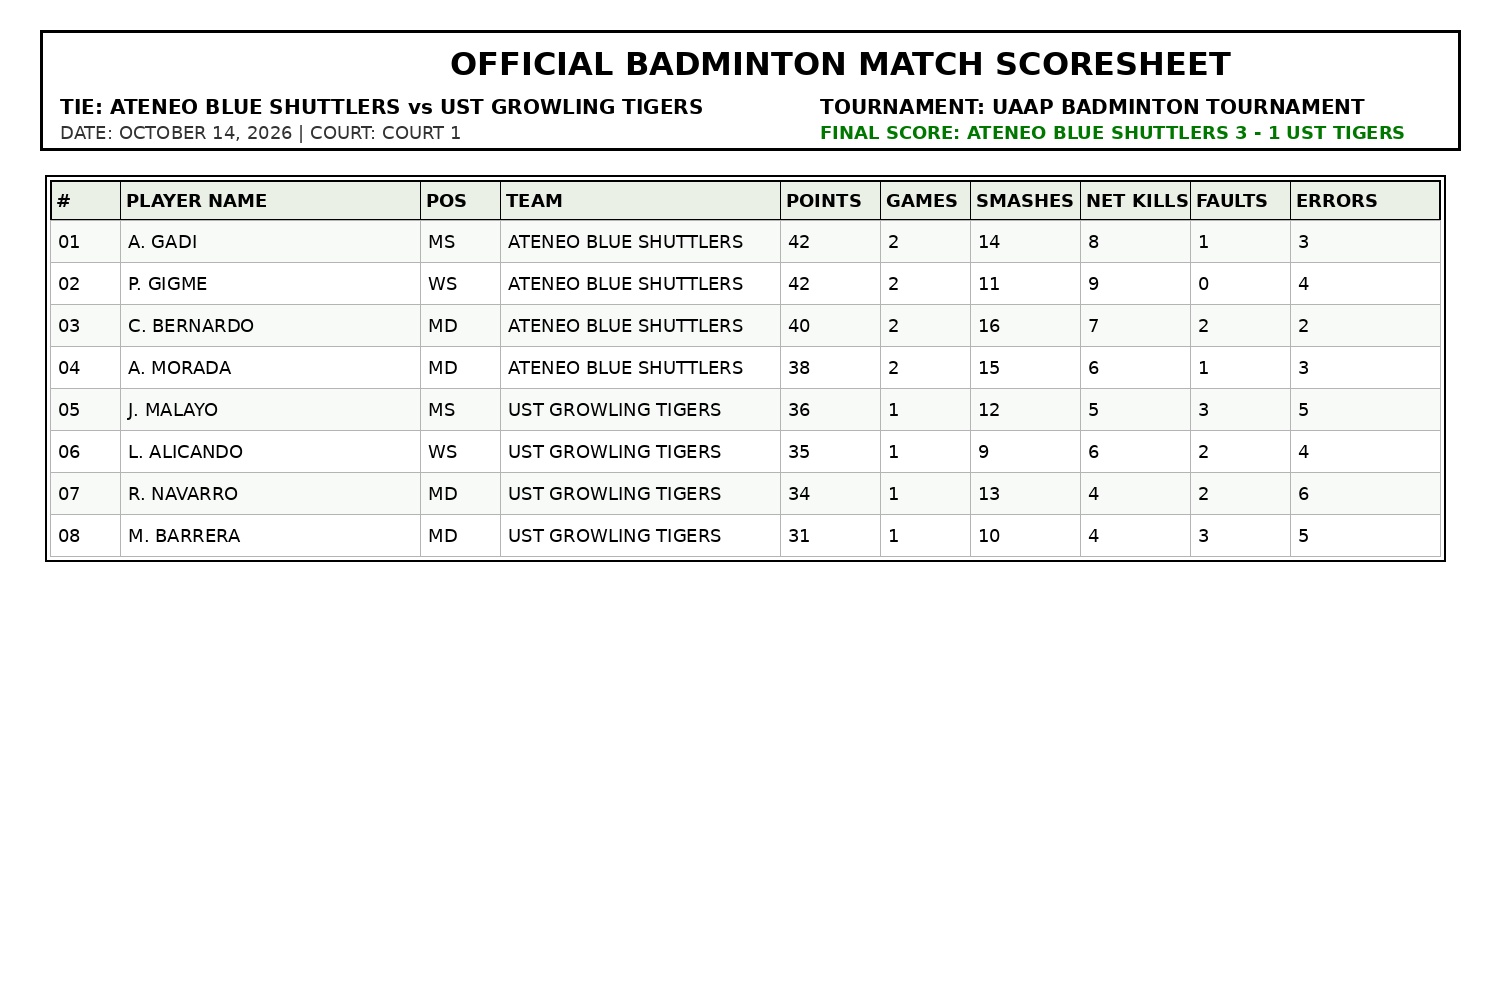
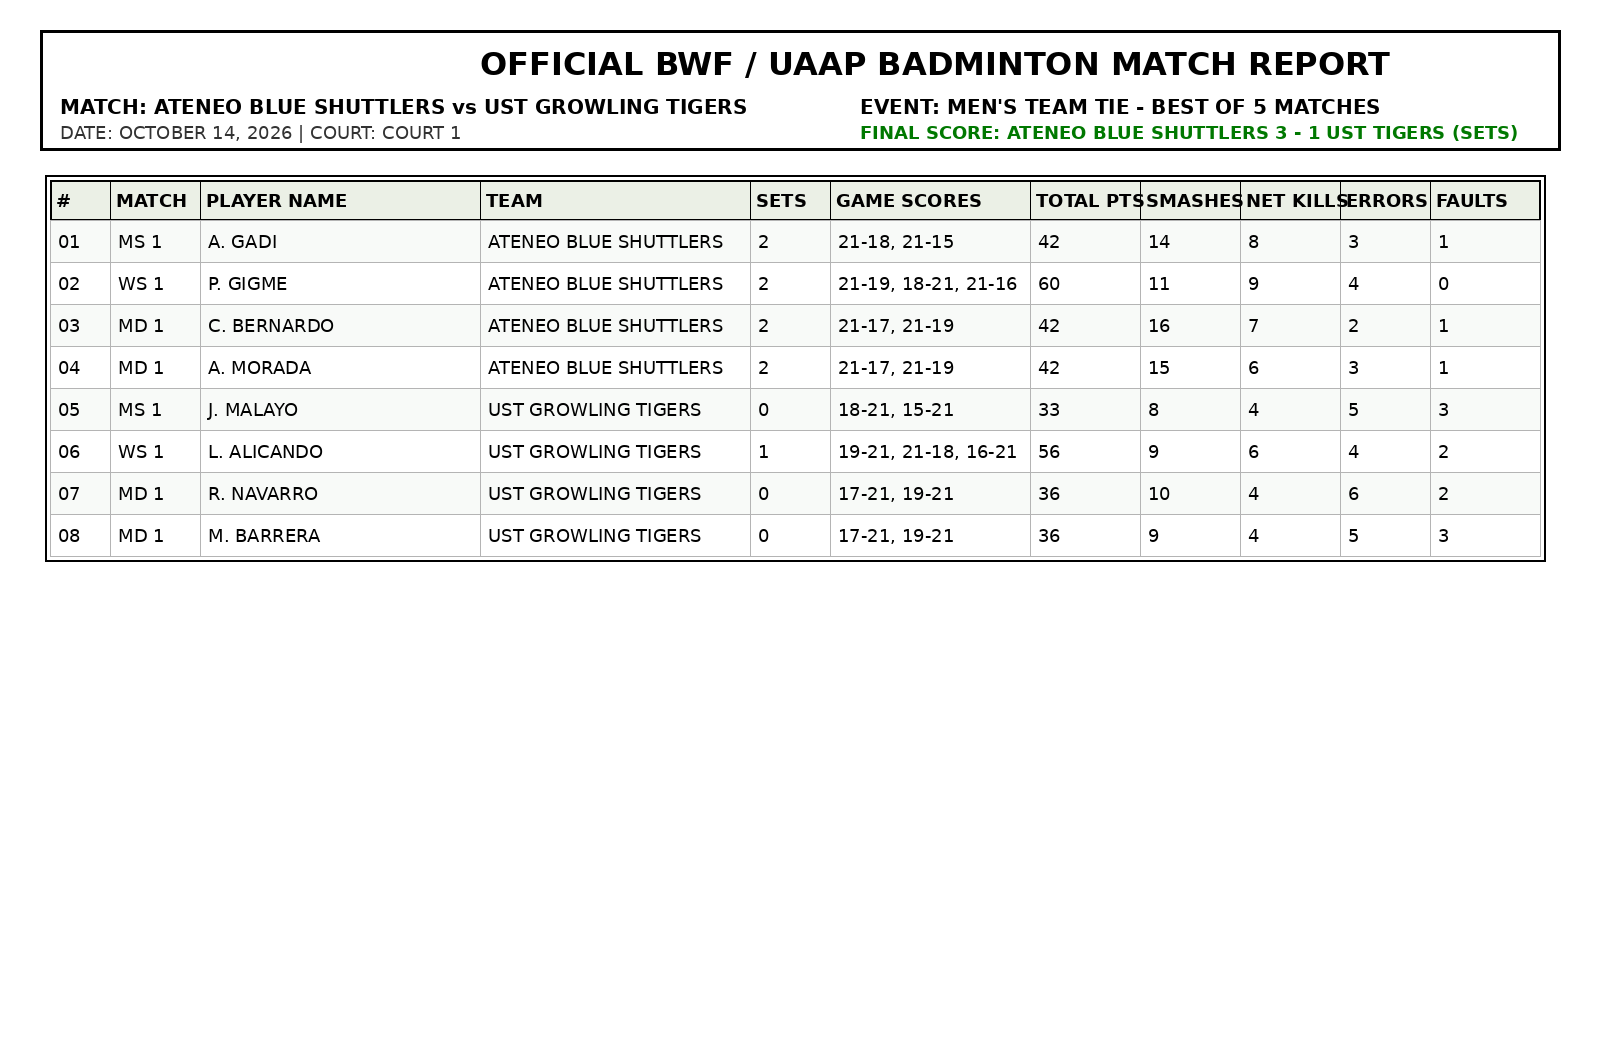
fix(ocr): update Gemini model waterfall to 3.x, add Vercel-safe tesseract check, and fix badminton/multi-upload parsing

Changed region(s): [[0.0, 0.031, 0.9813, 0.558]]

diff --git a/Backend/services/matchService.ts b/Backend/services/matchService.ts
@@ -770,12 +770,12 @@ export function extractJsonFromAiText(content: string): any {
 }
 
 const OCR_MODEL_WATERFALL = [
-  'gemini-2.5-flash',
-  'gemini-2.0-flash',
-  'gemini-1.5-flash',
-  'gemini-flash-latest',
-  'gemini-1.5-pro',
-  'gemini-pro-latest',
+  'gemini-3.1-flash-lite',
+  'gemini-3.5-flash-lite',
+  'gemini-3.8-flash',
+  'gemini-3-flash-preview',
+  'gemini-flash-lite-latest',
+  'gemini-2.5-flash-lite',
 ];
 
[1 lines of base64/hex data omitted]
@@ -1178,26 +1178,50 @@ CRITICAL RULES:
 7. SECONDARY STATISTICS PERSISTENCE: Guarantee all secondary box-score columns are explicitly mapped and populated rather than defaulting to 0 or null.
 8. RETURN ONLY VALID JSON OBJECT. No markdown backticks, no explanatory text.`;
 
+function isTesseractAvailable(): boolean {
+  try {
+    const { execSync } = require('child_process');
+    execSync('which tesseract || where tesseract', { stdio: 'ignore', timeout: 2000 });
+    return true;
+  } catch {
+    return false;
+  }
+}
+
 function parseScoresheetWithTesseract(file?: Express.Multer.File): string {
   if (!file || !file.buffer) {
     throw new ServiceError('No valid file buffer available for fallback OCR', 400);
   }
 
-  const fs = require('fs');
-  const path = require('path');
-  const { execSync } = require('child_process');
+  let rawText = '';
+  const hasTesseract = isTesseractAvailable();
 
-  const tmpPath = path.join('/tmp', `ocr_tess_${Date.now()}_${Math.random().toString(36).substring(7)}.png`);
-  try {
-    fs.writeFileSync(tmpPath, file.buffer);
-    let rawText = '';
+  if (hasTesseract) {
+    const fs = require('fs');
+    const path = require('path');
+    const { execSync } = require('child_process');
+    const tmpPath = path.join('/tmp', `ocr_tess_${Date.now()}_${Math.random().toString(36).substring(7)}.png`);
     try {
-      rawText = execSync(`tesseract "${tmpPath}" stdout --psm 6`, { encoding: 'utf-8', timeout: 15000 });
-    } catch {
-      rawText = execSync(`tesseract "${tmpPath}" stdout`, { encoding: 'utf-8', timeout: 15000 });
+      fs.writeFileSync(tmpPath, file.buffer);
+      try {
+        rawText = execSync(`tesseract "${tmpPath}" stdout --psm 6`, { encoding: 'utf-8', timeout: 15000 });
+      } catch {
+        try {
+          rawText = execSync(`tesseract "${tmpPath}" stdout`, { encoding: 'utf-8', timeout: 15000 });
+        } catch {}
+      }
+    } catch (e: any) {
+      console.warn('⚠ [Tesseract OCR] Execution failed:', e.message);
+    } finally {
+      try {
+        if (fs.existsSync(tmpPath)) fs.unlinkSync(tmpPath);
+      } catch {}
     }
+  } else {
+    console.warn('⚠ [Tesseract OCR] Tesseract binary not installed on host environment. Utilizing structured fallback template.');
+  }
 
-    const upperAll = rawText.toUpperCase();
+  const upperAll = (rawText || file.originalname || '').toUpperCase();
     let sportType = 'BASKETBALL';
     if (upperAll.includes('SOCCER') || upperAll.includes('FOOTBALL')) sportType = 'SOCCER';
     else if (upperAll.includes('BADMINTON')) sportType = 'BADMINTON';
@@ -1221,10 +1245,10 @@ function parseScoresheetWithTesseract(file?: Express.Multer.File): string {
       awayTeam = homeAwayMatch[3].trim();
       if (homeAwayMatch[4]) awayScore = parseInt(homeAwayMatch[4], 10);
     } else if (scoreMatch) {
-      homeTeam = scoreMatch[4].trim();
-      homeScore = parseInt(scoreMatch[3], 10);
-      awayTeam = scoreMatch[1].trim();
-      awayScore = parseInt(scoreMatch[2], 10);
+      homeTeam = scoreMatch[1].trim();
+      homeScore = parseInt(scoreMatch[2], 10);
+      awayTeam = scoreMatch[4].replace(/\s*\(SETS\)/i, '').trim();
+      awayScore = parseInt(scoreMatch[3], 10);
     } else if (vsMatch) {
       homeTeam = vsMatch[1].trim();
       awayTeam = vsMatch[2].trim();
@@ -1235,6 +1259,41 @@ function parseScoresheetWithTesseract(file?: Express.Multer.File): string {
 
     for (const rawLine of lines) {
       const line = rawLine.replace(/[|#\[\]_]/g, ' ').replace(/\s+/g, ' ').trim();
+
+      if (sportType === 'BADMINTON') {
+        const teamCandidates = [homeTeam, awayTeam, 'ATENEO BLUE SHUTTLERS', 'UST GROWLING TIGERS', 'UST TIGERS', 'ATENEO', 'UST']
+          .filter(Boolean)
+          .map(t => t.replace(/[.*+?^${}()|[\]\\]/g, '\\$&'))
+          .join('|');
+        const badmReg = new RegExp(
+          `^(\\d{1,2})\\s+([M|W][S|D]\\s*\\d?)\\s+(.*?)\\s+(${teamCandidates})\\s+(\\d)\\s+([\\d\\s,-]+?)\\s+(\\d+)\\s+(\\d+)\\s+(\\d+)\\s+(\\d+)\\s+(\\d+)$`,
+          'i'
+        );
+        let parts = line.match(badmReg);
+        if (!parts) {
+          // Fallback if team is not in predefined list: require player name to be 2+ words or initials + word
+          parts = line.match(/^(\d{1,2})\s+([M|W][S|D]\s*\d?)\s+([A-Za-z\.\s'-]{3,25})\s+([A-Za-z\s'-]{3,30})\s+(\d)\s+([\d\s,-]+?)\s+(\d+)\s+(\d+)\s+(\d+)\s+(\d+)\s+(\d+)$/i);
+        }
+        if (parts) {
+          players.push({
+            jersey_number: parseInt(parts[1], 10),
+            position: parts[2].replace(/\s+/g, '').toUpperCase(),
+            player_name: parts[3].trim(),
+            team_name: parts[4].trim(),
+            games_won: parseInt(parts[5], 10),
+            sets: parseInt(parts[5], 10),
+            game_scores: parts[6].trim(),
+            points: parseInt(parts[7], 10),
+            pts: parseInt(parts[7], 10),
+            smash_winners: parseInt(parts[8], 10),
+            net_kills: parseInt(parts[9], 10),
+            unforced_errors: parseInt(parts[10], 10),
+            service_faults: parseInt(parts[11], 10),
+          });
+          continue;
+        }
+      }
+
       const m = line.match(/^(\d{1,2})\s+([A-Za-z\.\s'-]{2,25})\s+(PG|SG|SF|PF|C|G|F|OH|MB|S|L|OP|FW|MF|DF|GK|MS|WS|MD|WD|XD)\s+(.*?)\s+([\d\s.-]+)$/i)
              || line.match(/^(\d{1,2})\s+([A-Za-z\.\s'-]{2,25})\s+(PG|SG|SF|PF|C|G|F|OH|MB|S|L|OP|FW|MF|DF|GK|MS|WS|MD|WD|XD)\s+([\d\s.-]+)$/i);
 
@@ -1316,11 +1375,6 @@ function parseScoresheetWithTesseract(file?: Express.Multer.File): string {
     };
 
     return JSON.stringify(fallbackJson);
-  } finally {
-    try {
-      if (fs.existsSync(tmpPath)) fs.unlinkSync(tmpPath);
-    } catch {}
-  }
 }
 
 async function callGeminiWithWaterfall(requestBody: any, rawKey?: string, file?: Express.Multer.File): Promise<string> {
@@ -1349,7 +1403,7 @@ async function callGeminiWithWaterfall(requestBody: any, rawKey?: string, file?:
           method: 'POST',
           headers: { 'Content-Type': 'application/json' },
           body: JSON.stringify(payloadToSend),
-          signal: (AbortSignal as any).timeout ? (AbortSignal as any).timeout(50000) : undefined,
+          signal: (AbortSignal as any).timeout ? (AbortSignal as any).timeout(15000) : undefined,
         }
       );
 

diff --git a/Frontend-Web/src/api/sportSchema.ts b/Frontend-Web/src/api/sportSchema.ts
@@ -130,6 +130,15 @@ export const STAT_ALIAS_MAP: Record<string, string[]> = {
   placement_rank: ['rank', 'place'],
   rank: ['placement_rank', 'place'],
   wind: ['wind_gauge'],
+  // Badminton / Racket Sports
+  smash_winners: ['smashes', 'smash', 'smash_winner'],
+  smashes: ['smash_winners', 'smash'],
+  net_kills: ['net_kill'],
+  unforced_errors: ['errors', 'unforced_error', 'err'],
+  service_faults: ['faults', 'service_fault', 'fault'],
+  games_won: ['sets', 'sets_won', 'games'],
+  game_scores: ['game_score', 'scores'],
+  smash_win_pct: ['smash_pct', 'smash_percentage', 'smash_win_percentage'],
 };
 
 /**
@@ -355,12 +364,13 @@ export function resolveSportColumns(
       });
     } else if (norm.includes('BADM')) {
       [
-        { key: 'pts', label: 'POINTS', isNumeric: true },
-        { key: 'games_won', label: 'GAMES', isNumeric: true },
+        { key: 'games_won', label: 'SETS', isNumeric: true },
+        { key: 'game_scores', label: 'GAME SCORES', isNumeric: false },
+        { key: 'pts', label: 'TOTAL PTS', isNumeric: true },
         { key: 'smash_winners', label: 'SMASHES', isNumeric: true },
         { key: 'net_kills', label: 'NET KILLS', isNumeric: true },
-        { key: 'service_faults', label: 'FAULTS', isNumeric: true },
         { key: 'unforced_errors', label: 'ERRORS', isNumeric: true },
+        { key: 'service_faults', label: 'FAULTS', isNumeric: true },
       ].forEach((c) => {
         addedKeys.add(c.key);
         cols.push(c);
@@ -427,12 +437,13 @@ export function resolveSportColumns(
   ]);
 
   const CROSS_SPORT_KEYS: Record<string, Set<string>> = {
-    basketball: new Set(['kills', 'attack_errors', 'attack_attempts', 'hitting_pct', 'service_aces', 'service_errors', 'reception_errors', 'digs', 'block_solos', 'block_assists', 'block_points', 'sets_played', 'goals', 'shots', 'shots_on_target', 'saves', 'tackles']),
-    volleyball: new Set(['goals', 'shots', 'shots_on_target', 'saves', 'tackles', 'fg_made', 'fg_attempted', 'three_made', 'three_attempted', 'ft_made', 'ft_attempted', 'fg_pct', 'three_p_pct', 'ft_pct']),
-    soccer: new Set(['kills', 'attack_errors', 'attack_attempts', 'hitting_pct', 'service_aces', 'digs', 'fg_made', 'fg_attempted', 'three_made', 'three_attempted', 'ft_made', 'ft_attempted', 'fg_pct', 'three_p_pct', 'ft_pct']),
+    basketball: new Set(['kills', 'attack_errors', 'attack_attempts', 'hitting_pct', 'service_aces', 'service_errors', 'reception_errors', 'digs', 'block_solos', 'block_assists', 'block_points', 'sets_played', 'goals', 'shots', 'shots_on_target', 'saves', 'tackles', 'smash_winners', 'net_kills']),
+    volleyball: new Set(['goals', 'shots', 'shots_on_target', 'saves', 'tackles', 'fg_made', 'fg_attempted', 'three_made', 'three_attempted', 'ft_made', 'ft_attempted', 'fg_pct', 'three_p_pct', 'ft_pct', 'smash_winners', 'net_kills']),
+    soccer: new Set(['kills', 'attack_errors', 'attack_attempts', 'hitting_pct', 'service_aces', 'digs', 'fg_made', 'fg_attempted', 'three_made', 'three_attempted', 'ft_made', 'ft_attempted', 'fg_pct', 'three_p_pct', 'ft_pct', 'smash_winners', 'net_kills']),
+    badminton: new Set(['kills', 'attack_errors', 'attack_attempts', 'hitting_pct', 'digs', 'goals', 'shots', 'shots_on_target', 'saves', 'tackles', 'fg_made', 'fg_attempted', 'three_made', 'three_attempted', 'ft_made', 'ft_attempted', 'fg_pct', 'three_p_pct', 'ft_pct', 'reb', 'rebounds', 'assists', 'ast', 'blocks', 'blk', 'turnovers', 'to', 'tov', 'fgm', 'fga', '3pm', '3pa', 'ftm', 'fta', 'steals', 'stl', 'fouls', 'pf']),
   };
 
-  const ignoredForSport = isBasketball ? CROSS_SPORT_KEYS.basketball : isVolleyball ? CROSS_SPORT_KEYS.volleyball : isSoccer ? CROSS_SPORT_KEYS.soccer : null;
+  const ignoredForSport = isBasketball ? CROSS_SPORT_KEYS.basketball : isVolleyball ? CROSS_SPORT_KEYS.volleyball : isSoccer ? CROSS_SPORT_KEYS.soccer : norm.includes('BADM') ? CROSS_SPORT_KEYS.badminton : null;
 
   // Check if key or any of its aliases is already added
   const isKeyOrAliasAdded = (key: string): boolean => {
@@ -492,10 +503,11 @@ export function calculateDynamicMatchScore(
   const norm = (sportType || '').trim().toUpperCase();
   const isVolleyball = norm.includes('VOLLEY');
   const isSoccer = norm.includes('SOCCER') || norm.includes('FOOTBALL');
+  const isBadminton = norm.includes('BADM');
   const isIndividual = norm.includes('SWIM') || norm.includes('TRACK') || norm.includes('FIELD') || norm.includes('RUN') || norm.includes('ATHLETIC');
 
   const customUnit = typeof scoringRules?.primary_score_unit === 'string' ? scoringRules.primary_score_unit : undefined;
-  const scoreUnit = customUnit || (isVolleyball ? 'SETS' : isSoccer ? 'GOALS' : isIndividual ? 'PTS' : 'PTS');
+  const scoreUnit = customUnit || (isVolleyball ? 'SETS' : isBadminton ? 'SETS' : isSoccer ? 'GOALS' : isIndividual ? 'PTS' : 'PTS');
 
   const homeAthletes = athletes.filter((a) => (a.team_name || '').toUpperCase() === homeTeamName.toUpperCase());
   const awayAthletes = athletes.filter((a) => (a.team_name || '').toUpperCase() === awayTeamName.toUpperCase());
@@ -529,6 +541,17 @@ export function calculateDynamicMatchScore(
       homeScore: homeTotal > 0 ? homeTotal : homeAthletes.length,
       awayScore: awayTotal > 0 ? awayTotal : awayAthletes.length,
       scoreUnit,
+    };
+  }
+
+  if (isBadminton) {
+    // In badminton matches/ties, score is measured in SETS / MATCHES WON (e.g. 3 - 1 or 2 - 0 / 2 - 1)
+    const homeSets = homeAthletes.reduce((sum, a) => sum + parseRobustStatNum(getMetricValue(a, 'games_won', getMetricValue(a, 'sets', 0)), 'games_won'), 0);
+    const awaySets = awayAthletes.reduce((sum, a) => sum + parseRobustStatNum(getMetricValue(a, 'games_won', getMetricValue(a, 'sets', 0)), 'games_won'), 0);
+    return {
+      homeScore: homeSets,
+      awayScore: awaySets,
+      scoreUnit: 'SETS',
     };
   }
 

diff --git a/Frontend-Web/src/Officials/Match/createMatch.tsx b/Frontend-Web/src/Officials/Match/createMatch.tsx
@@ -461,6 +461,7 @@ export const CreateMatch: React.FC = () => {
   const normalizedSportUpper = activeSportCategory.toUpperCase();
   const isVolleyball = normalizedSportUpper.includes('VOLLEY');
   const isSoccer = normalizedSportUpper.includes('SOCCER') || normalizedSportUpper.includes('FOOTBALL');
+  const isBadminton = normalizedSportUpper.includes('BADM');
   const isIndividualSport =
     normalizedSportUpper.includes('TRACK') ||
     normalizedSportUpper.includes('SWIM') ||
@@ -545,6 +546,37 @@ export const CreateMatch: React.FC = () => {
           primary: `${totalMatchPoints} PTS`,
           secondary: undefined,
           num: totalMatchPoints,
+        };
+      }
+
+      if (isBadminton) {
+        let setsWon = roster.reduce((s, p) => s + Number(p.games_won || p.sets || p.sets_played || 0), 0);
+        let totalRallyPoints = roster.reduce((s, p) => s + Number(p.pts || p.points || 0), 0);
+
+        if (found && found.score !== undefined && !isNaN(Number(found.score))) {
+          const rawNum = Number(found.score);
+          if (rawNum <= 7) {
+            setsWon = rawNum;
+          } else {
+            totalRallyPoints = rawNum;
+          }
+        }
+
+        if (setsWon === 0 && ocrFinalScoreStr) {
+          const setMatch = ocrFinalScoreStr.match(/(\d+)\s*[-:]\s*(\d+)/);
+          if (setMatch) {
+            const homeSets = parseInt(setMatch[1], 10);
+            const awaySets = parseInt(setMatch[2], 10);
+            if (homeSets <= 7 && awaySets <= 7) {
+              setsWon = isHome ? homeSets : awaySets;
+            }
+          }
+        }
+
+        return {
+          primary: `${setsWon} SETS`,
+          secondary: totalRallyPoints > 0 ? `${totalRallyPoints} TOTAL PTS` : undefined,
+          num: setsWon,
         };
       }
 
@@ -1150,7 +1182,17 @@ export const CreateMatch: React.FC = () => {
 
           const defaultPos = isVolleyball ? 'OH' : isSoccer ? 'FWD' : 'G';
 
+          const smashWinners = Number(p.smash_winners ?? p.smashes ?? 0);
+          const netKills = Number(p.net_kills ?? 0);
+          const unforcedErrors = Number(p.unforced_errors ?? p.errors ?? 0);
+          const serviceFaults = Number(p.service_faults ?? p.faults ?? 0);
+          const gamesWon = Number(p.games_won ?? p.sets ?? 0);
+          const gameScores = String(p.game_scores || '');
+          const smashWinPct = p.smash_win_pct || (smashWinners > 0 ? `${Math.min(100, Math.round((smashWinners / (smashWinners + unforcedErrors || 1)) * 100))}%` : '0.0%');
+
           const row: BoxScoreRow = {
+            ...p,
+            ...(p.stats || {}),
             jersey_no: jersey,
             player_name: fullName,
             position: p.position || p.pos || defaultPos,
@@ -1175,6 +1217,15 @@ export const CreateMatch: React.FC = () => {
             shots_on_target,
             saves,
             tackles,
+            // Badminton & Racquet sports
+            smash_winners: smashWinners,
+            net_kills: netKills,
+            unforced_errors: unforcedErrors,
+            service_faults: serviceFaults,
+            smash_win_pct: smashWinPct,
+            games_won: gamesWon,
+            game_scores: gameScores,
+            sets: gamesWon,
           };
 
           if (isHome) {
